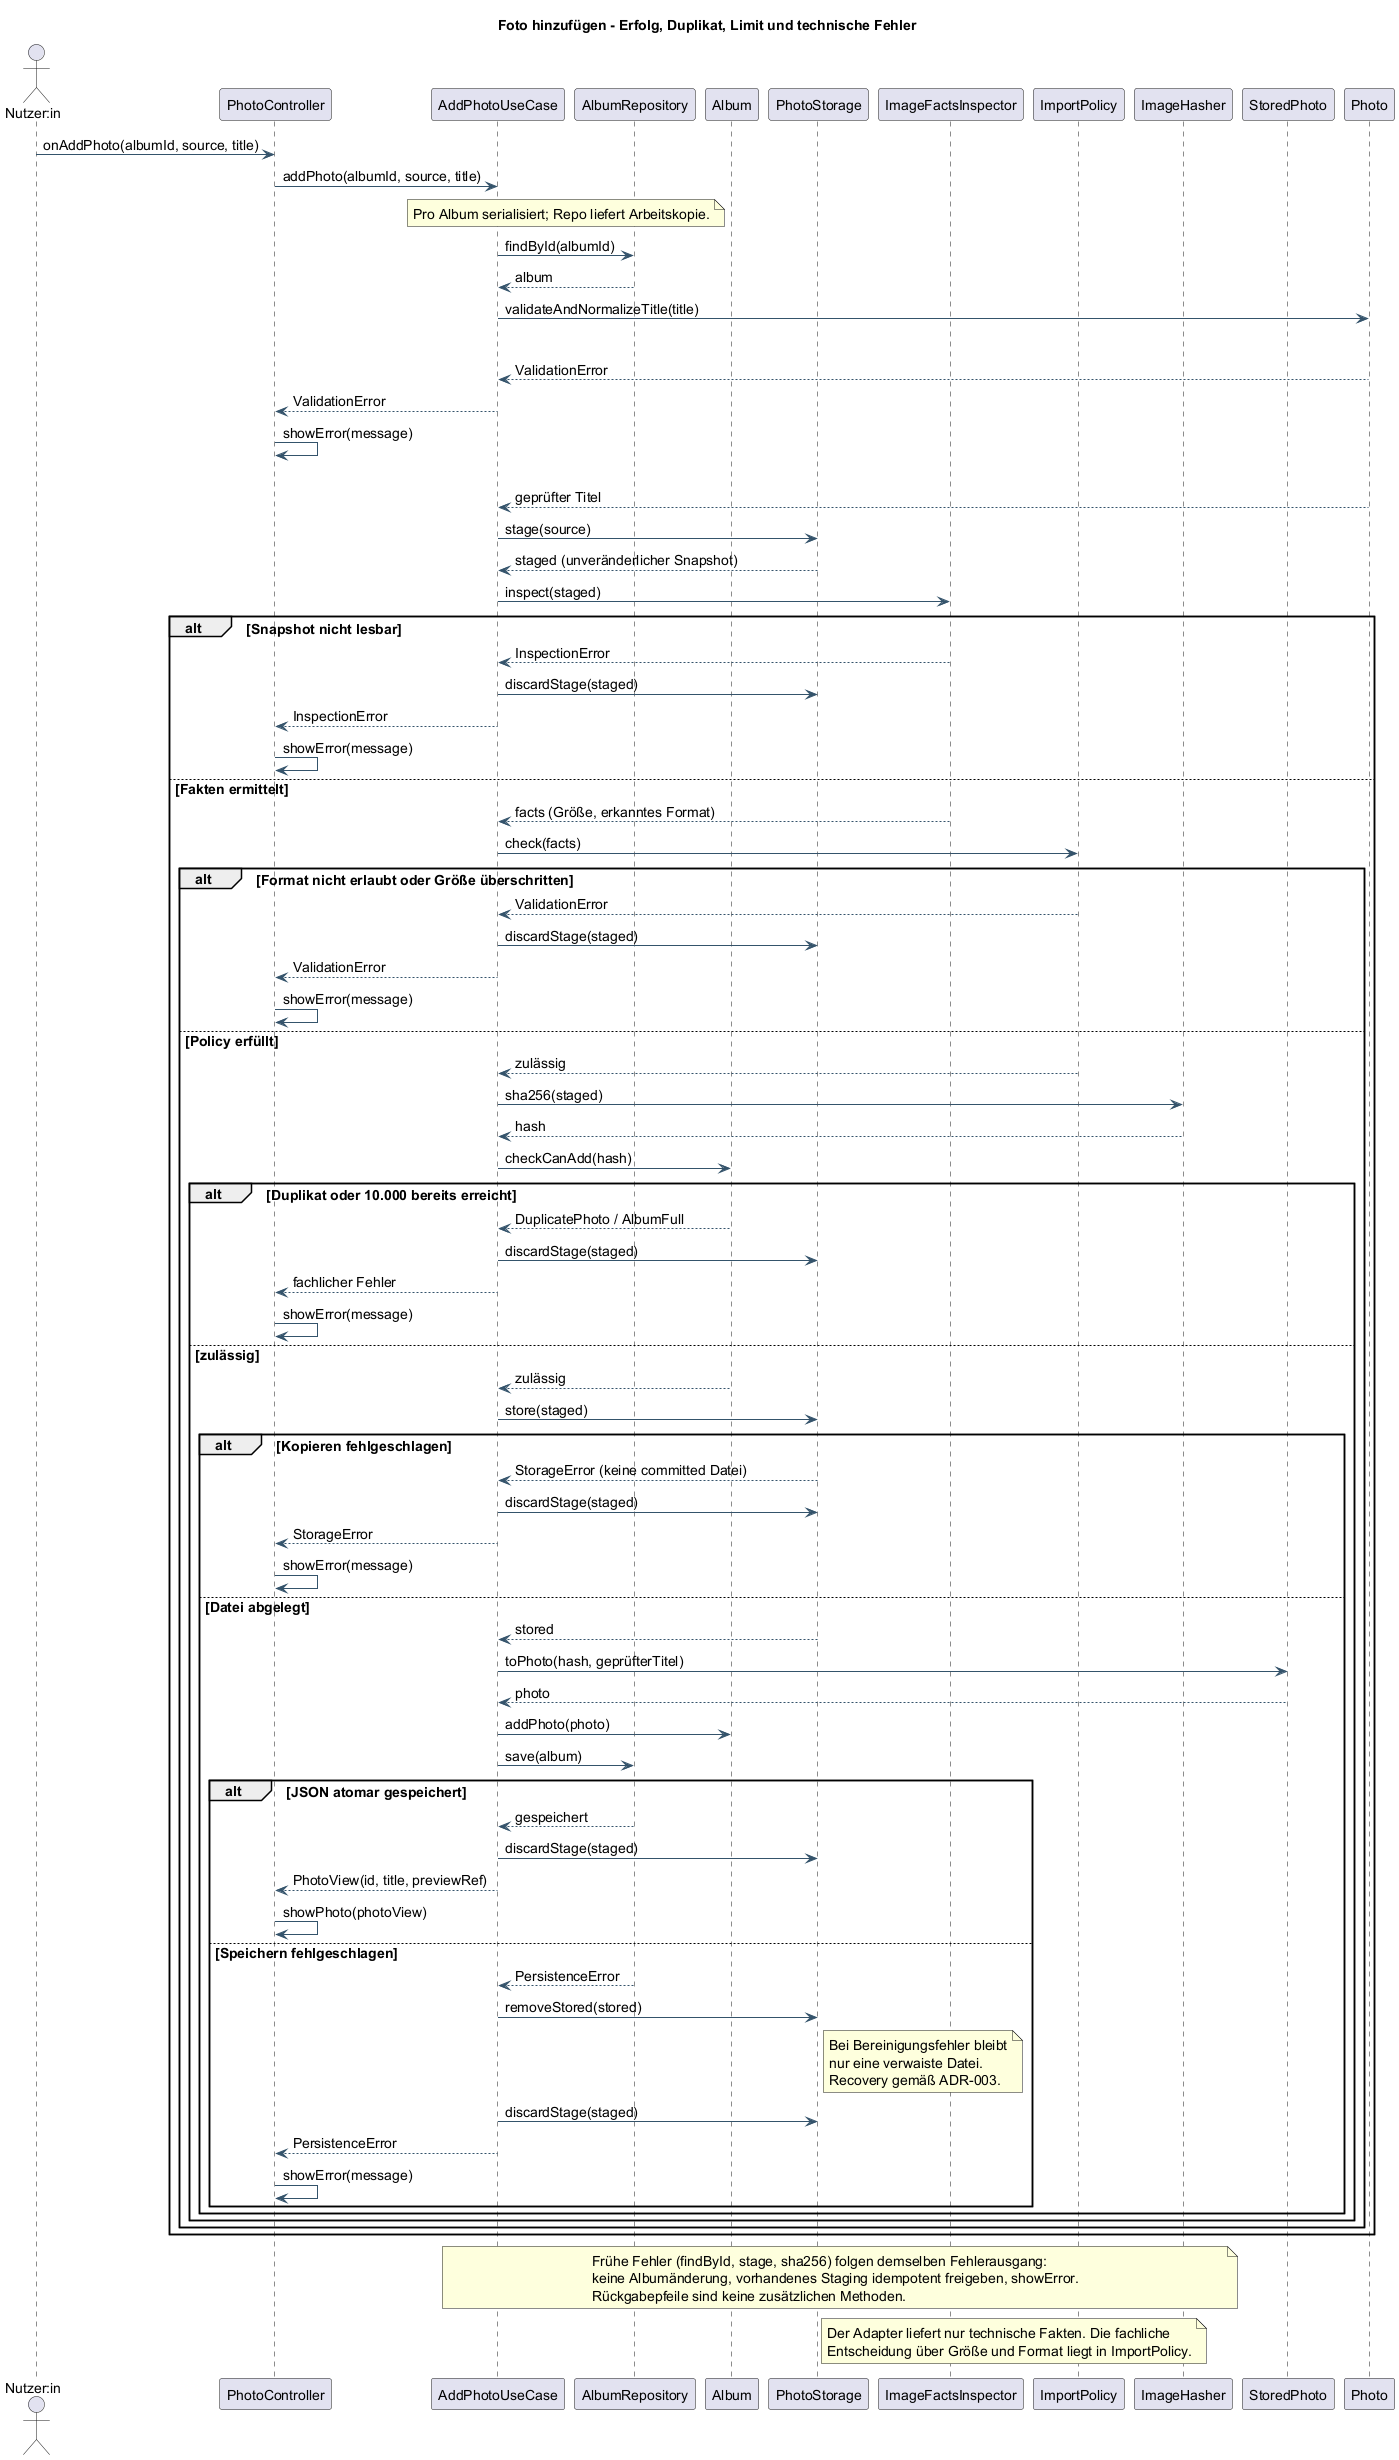
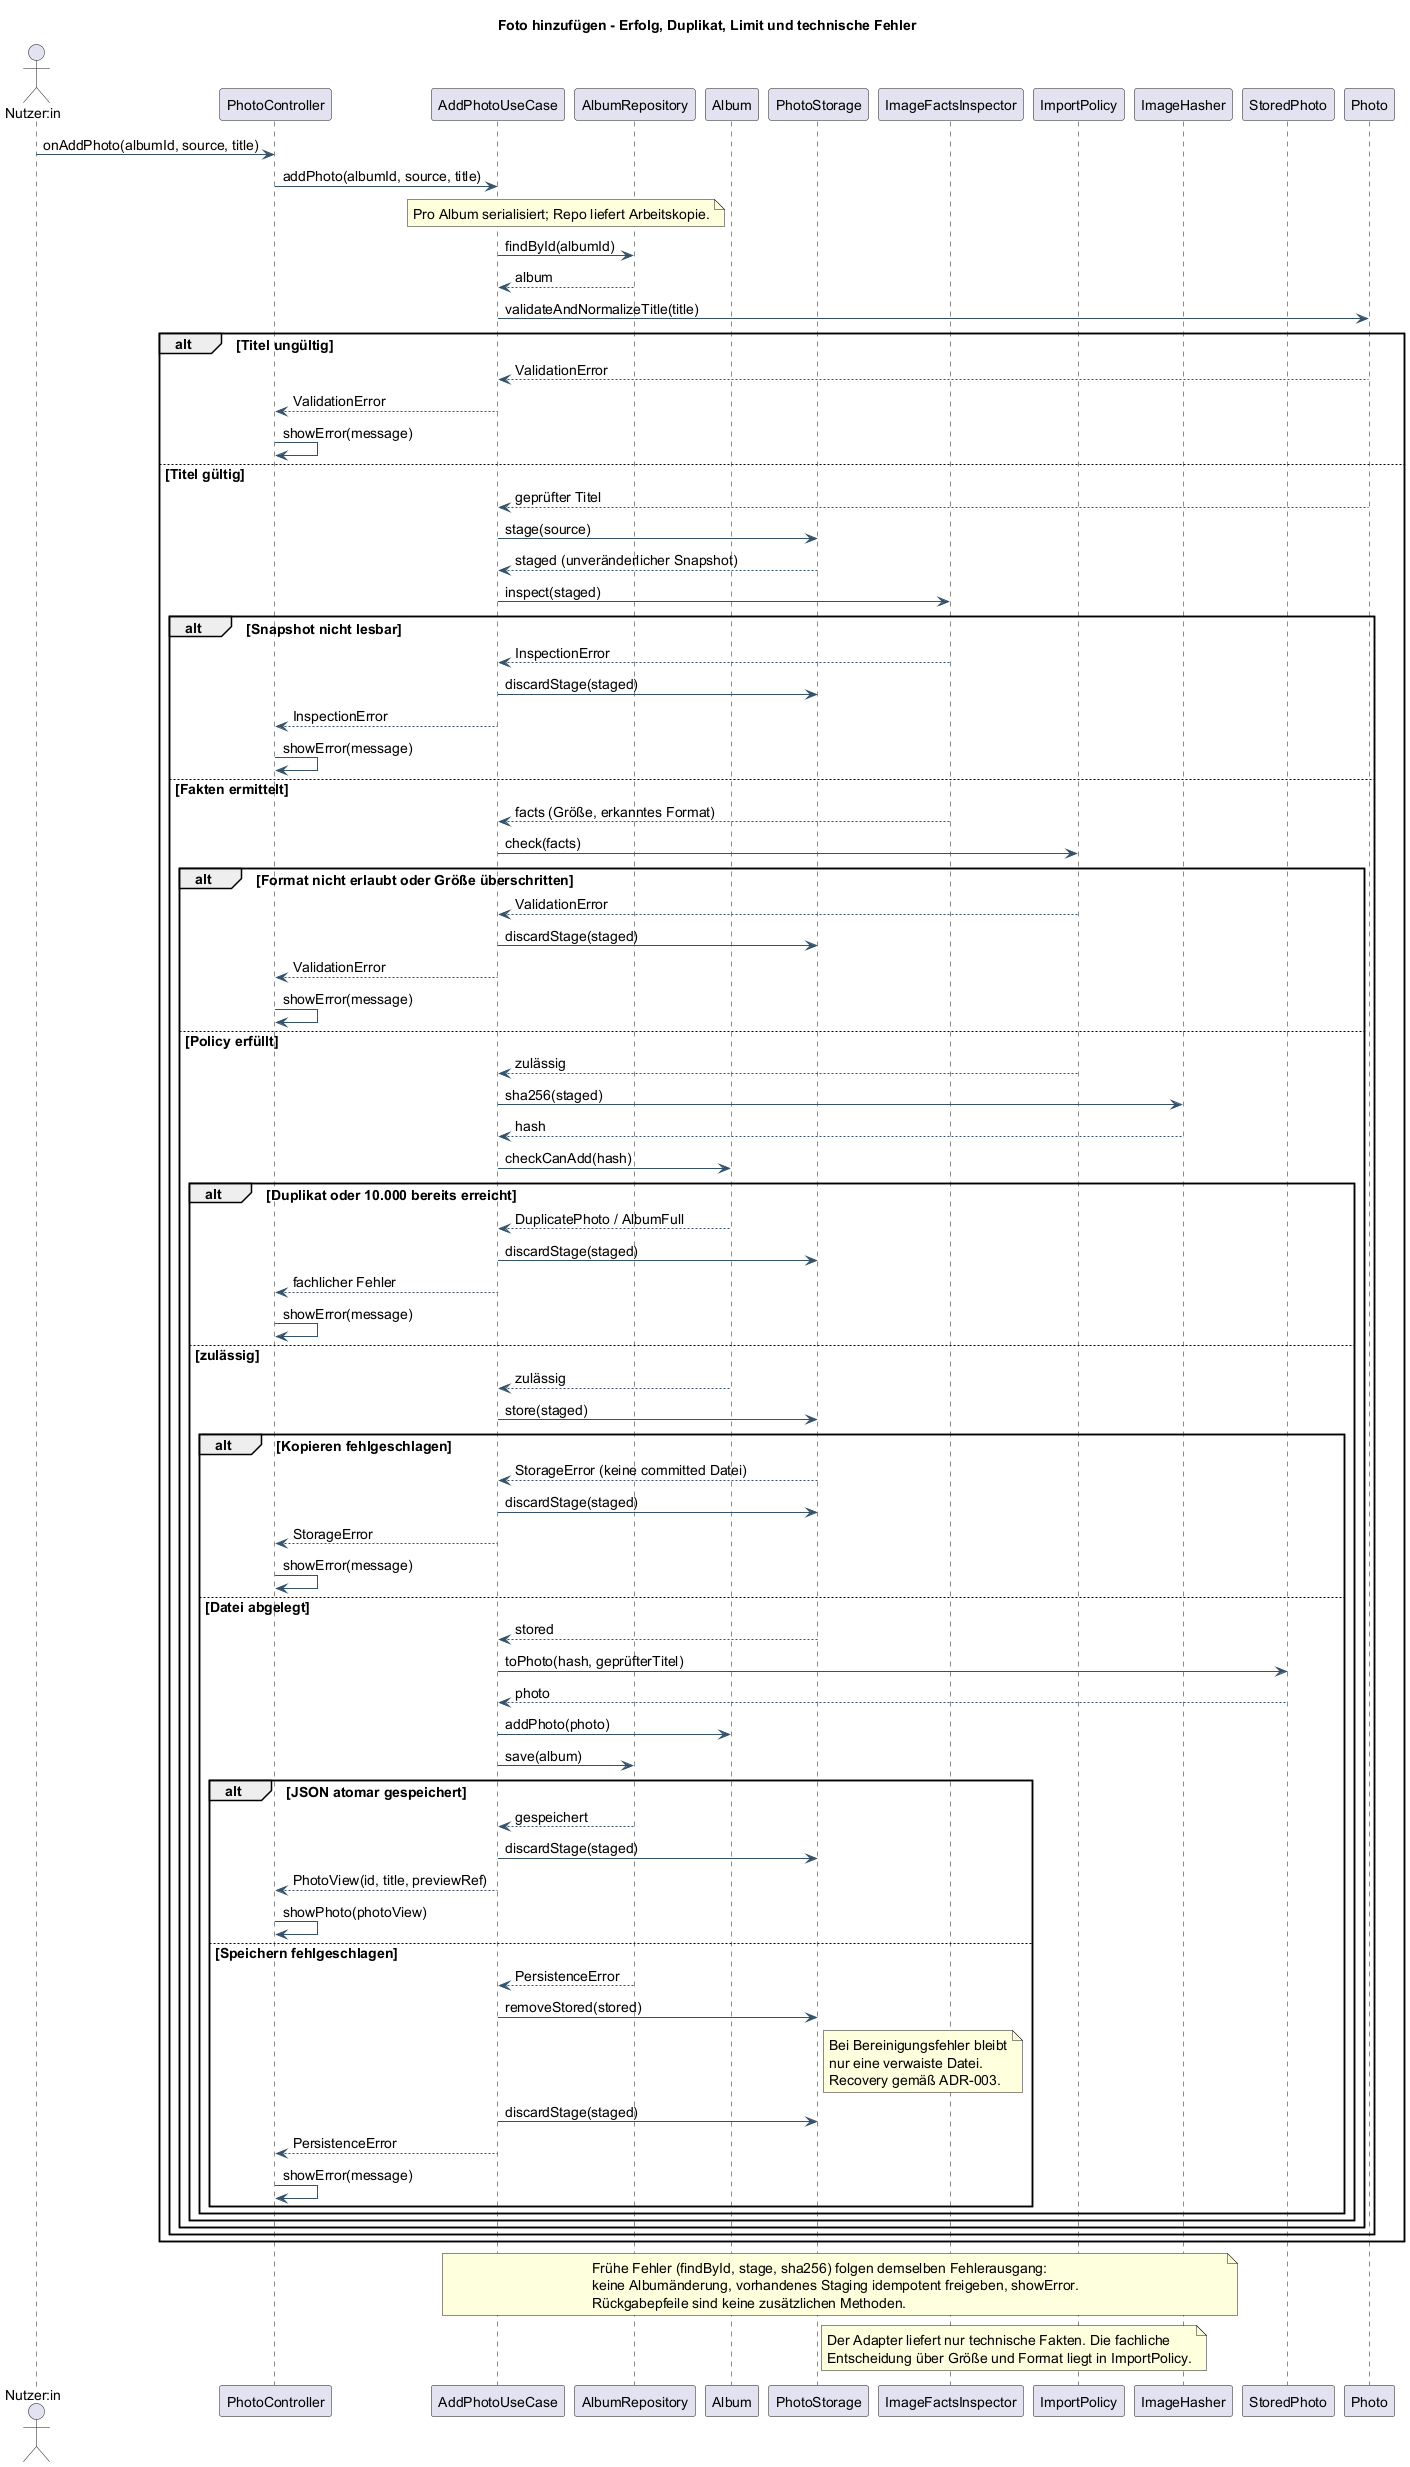
Implement changes 2

diff --git a/docs/design/SCHNITTSTELLEN.md b/docs/design/SCHNITTSTELLEN.md
@@ -22,9 +22,9 @@ Die Diagramme sind Zielentwurf; im Code sind nur die Domänengrundlagen umgesetz
 AlbumSummary: id, name, photoCount, version. PhotoView: id, title, previewRef; einziges
 Foto-Ergebnis für die UI. TrashResult: cleanupPending. StagedImage: opaker Token; Infrastruktur löst ihn
 intern auf einen Pfad auf. StoredPhoto: id, storageRef, previewRef, capturedAt;
-toPhoto(hash, title) erzeugt Photo mit dem vom Use Case geprüften Titel. Die Domäne prüft
-trimmt außen, normalisiert NFC und verlangt 1–100 Unicode-Codepoints. Photo.title() liefert
-den gespeicherten Titel für PhotoView.
+toPhoto(hash, title) erzeugt Photo mit dem vom Use Case geprüften Titel. Die Domäne trimmt
+den Titel außen, normalisiert ihn nach NFC und verlangt 1–100 Unicode-Codepoints.
+Photo.title() liefert den gespeicherten Titel für PhotoView.
 PhotoPage: Liste aus Foto-ID und Vorschaubildreferenz, offset, hasMore; Details in Block 4.
 SourceRef, SuggestionRequest, Suggestion und Fehlerklassen sind im Zielentwurf noch nicht
 vollständig ausmodellierte DTOs. `source` bezeichnet eine neutrale, vom Adapter geprüfte
